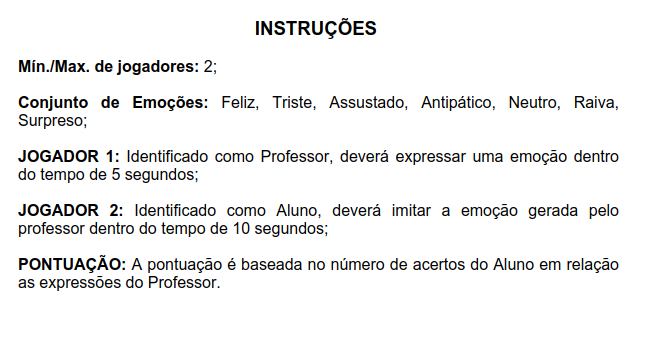
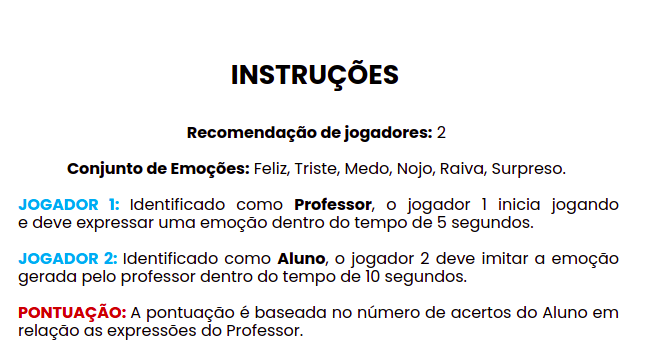
Versao Final

diff --git a/run.py b/run.py
@@ -14,7 +14,10 @@ def time_as_int():
 def janela_inicio(): # JANELA 1 
     sg.theme('Reddit')
     layout = [
-        [sg.Image(filename='images/pti.png', size=(300, 300))],
+        [sg.T(" ")],
+        [sg.Text("DualTEA",size=(10,1), justification="center",font=('Poppins', 40, 'bold'), key='')],
+        [sg.Image(filename='images/pti.png', size=(250, 250))],
+        [sg.T(" ")],
         [sg.Button("Início", button_color= "#00b2ef", font=("Poppins", 25), size=(10, 1))],
         [sg.Button("Instruções", button_color= "#00ad4e", font=("Poppins", 25), size=(10, 1))],
         [sg.Button("Sair", size=(10, 1), button_color= "#d4181a", font=("Poppins", 25))]
@@ -50,7 +53,7 @@ def janela_jogo(): # JANELA 2
         [sg.Text("Fase:", size=(4, 1), justification="center", font=("Poppins", 25)), sg.Text('',size=(8, 1),font=("Poppins", 25, 'bold'),text_color='#c71017', key='fase'), 
         sg.T('                                                                                                                                                                                         '), 
         sg.Text("Tempo:", size=(7, 1), justification="center", font=("Poppins", 25)), sg.Text('', size=(12, 1),text_color='#c71017', font=('Poppins', 25,'bold'), key='contador')],
-        
+
 
         [sg.Column(col1,element_justification='c'), sg.VSeparator('white'), sg.Column(col2,element_justification='c')],
         [sg.T('')],
@@ -85,7 +88,7 @@ def janela_instruction(): # JANELA 3
     sg.theme('Reddit')
     
     layout = [
-        [sg.Image('images/rules.png',size=(700,300))],
+        [sg.Image('images/rules.png',size=(700,370))],
         [sg.Button("Voltar", size=(10,1), button_color= "#00b2ef",font=("Poppins", 25))]
     ]
     return sg.Window("Jogo de Expressões",layout=layout, size=(800, 600), element_justification='center', location=(350, 150))
@@ -100,6 +103,8 @@ def janela_final_saida(): # JANELA 5
     return sg.Window("Jogo de Expressões",layout=layout, size=(400, 200), element_justification='center', location=(550, 250))
 
 def translateEmo(emolabel): # traduz o emolabel para o 'OutProfessor' da JANELA6 e JANELA2 
+    emocao = ""
+
     if(emolabel == 'happy'):
         emocao = "Feliz"
     elif(emolabel == 'sad'):
@@ -128,7 +133,7 @@ def nextTurn(user, janela2, janela6, i): # faz a contagem para o usuário (profe
 
         while current_time <= 500:                                                                                  
             event, values = janela2.read(timeout=10)                                                        # feito
-            janela2['contador'].update('{:02d}'.format((current_time //100) % 60))                          # feito
+            janela2['contador'].update('{:02d}'.format((current_time //100) % 60))                       # feito
             janela2['OutAluno'].update(" ", text_color="black", font=('Poppins', 20, "bold"))               # não feito
             janela2['expressao'].update("Atenção Aluno, agora é a sua vez!", font = ('Poppins', 28,"bold")) # feito
 
@@ -143,6 +148,7 @@ def nextTurn(user, janela2, janela6, i): # faz a contagem para o usuário (profe
             event2, values2 = janela2.read(timeout=10)                                                      # feito
             event, values = janela6.read(timeout=10)                                                        # feito
 
+            janela2['contador'].update("")
             janela2['professor'].update(text_color="black", font=('Poppins', 30, "bold"))                   # feito
             janela2['aluno'].update(text_color="black", font=('Poppins', 30, "bold"))                       # especifico, não feito
 
@@ -153,7 +159,7 @@ def nextTurn(user, janela2, janela6, i): # faz a contagem para o usuário (profe
 
             janela6['OutProfessor'].update(" ")                                                             # [???] específico, não feito
             janela6['fase'].update(value=(i+1))                                                             # feito        
-            janela6['contador'].update('{:02d}'.format((current_time //100) % 60))                          # feito
+            janela6['contador'].update('{:02d}'.format((current_time //100)%60))                         # feito
             janela6['expressao'].update("Atenção Professor, é a sua vez!", font=('Poppins', 28, "bold"))    # feito
             janela6['camProfessor'].update(filename="images/teacher.png")                                   # específico para a janela6, não feito.
 
@@ -162,7 +168,7 @@ def nextTurn(user, janela2, janela6, i): # faz a contagem para o usuário (profe
         janela6['expressao'].update("Professor, faça uma Expressão!")                                       # feito
         janela6['professor'].update(text_color="black", font=('Poppins', 20, "bold"))                       # feito
 
-def profRec(janela2, janela6, i): # captura da tela do professor 
+def profRec(janela2, janela6, i, neutral=0): # captura da tela do professor 
     vid = cv2.VideoCapture(-1)
     maior = 0
     frame_dic = {}
@@ -177,7 +183,7 @@ def profRec(janela2, janela6, i): # captura da tela do professor
     current_time = 0
     start_time = time_as_int()
 
-    while current_time < 500: # professor
+    while current_time <= 500: # professor
         event2, values2 = janela2.read(timeout=1)
         event, values = janela6.read(timeout=1)
         janela6['contador'].update('{:02d}.{:02d}'.format((current_time //100) % 60, current_time % 100))
@@ -226,8 +232,12 @@ def profRec(janela2, janela6, i): # captura da tela do professor
         if(emotions.count(e) > maior):
             maior = emotions.count(e)
             emotion = e         # emolabel final         
-            
+         
     if len(emotions) <= 0 and emotion == "":
+        neutral+=1
+
+        if(neutral >= 5):
+            return -1
 
         current_time = 0
         start_time = time_as_int()
@@ -240,7 +250,7 @@ def profRec(janela2, janela6, i): # captura da tela do professor
         
         start_time = time_as_int()
         vid.release()
-        emotion = profRec(janela2, janela6, i) 
+        emotion = profRec(janela2, janela6, i, neutral) 
 
     emocao = translateEmo(emotion)
 
@@ -264,7 +274,14 @@ def alunoRec(janela1, janela2, janela6): # captura da tela do aluno
         emo_p = ""
         results = []
         result = {}
+    
         emo_p = profRec(janela2, janela6, i) 
+
+        if(emo_p == -1):
+            janela2.close()
+            janela6.close()
+            return -1
+
         vid1 = cv2.VideoCapture(2)
         janela2['fase'].update(value=(i+1)) 
 
@@ -382,25 +399,30 @@ while aux == False:
         janela6 = janela_professor()
 
         score = alunoRec(janela1, janela2, janela6)
-        janela4 = janela_final()
+
+        if score == -1:
+            continue
+        else:
+            # if(score != -1): 
+            janela4 = janela_final()
         
-        while True:
-            event, values = janela4.read(timeout=10)
-            
-            if score == 0:
-                janela4['mensagem'].update("Mais sorte na próxima!")
-            elif score <= 2:
-                janela4['mensagem'].update("Tente novamente!")
-            elif score >= 2:
-                janela4['mensagem'].update("Parabéns Aluno!")
-            
-            janela4['scorefinal'].update(score)
+            while True:
+                event, values = janela4.read(timeout=10)
+                
+                if score == 0:
+                    janela4['mensagem'].update("Mais sorte na próxima!")
+                elif score <= 2:
+                    janela4['mensagem'].update("Tente novamente!")
+                elif score >= 2:
+                    janela4['mensagem'].update("Parabéns Aluno!")
+                
+                janela4['scorefinal'].update(score)
 
-            if event  == sg.WIN_CLOSED:
-                exit(0)
+                if event  == sg.WIN_CLOSED:
+                    exit(0)
 
-            if event == "Voltar":
-                janela4.close()
-                break
-
+                if event == "Voltar":
+                    janela4.close()
+                    break
+              
 cv2.destroyAllWindows()
